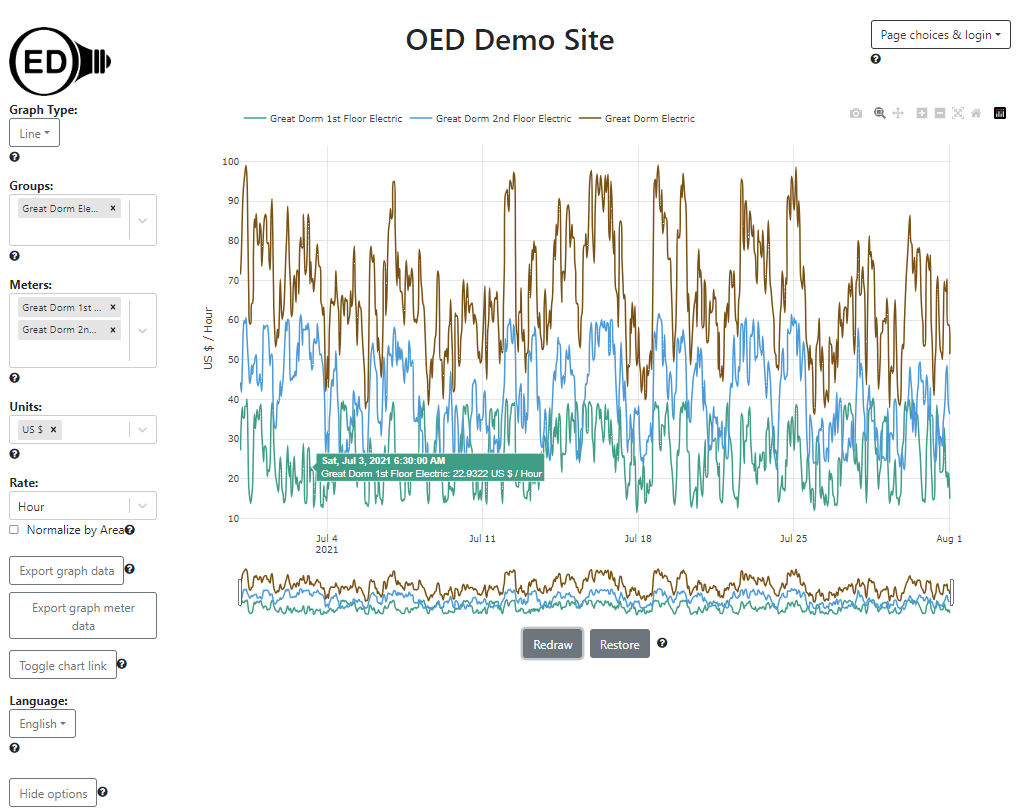
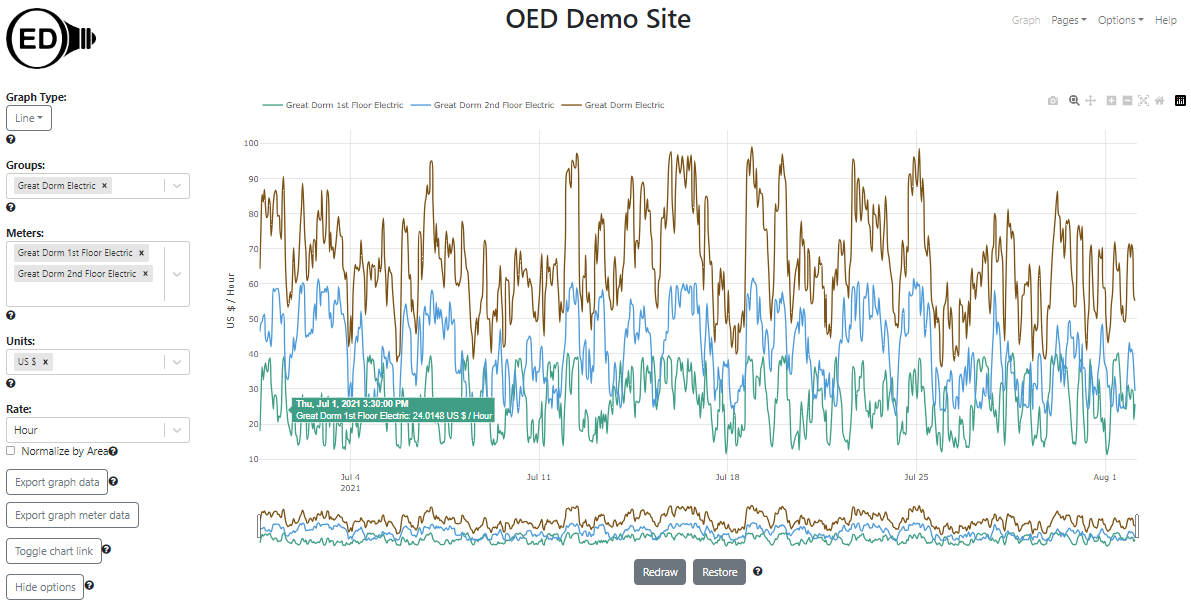
update for new images and OED look in features

diff --git a/features.html b/features.html
@@ -49,14 +49,14 @@ title: OED features
 				</li>
 			</ul>
 			<p><img alt="line graphic with two meters and a group of those meters in kWh"
-				src="images/lineGraphickWhDaily.png"></p>
+					src="images/lineGraphickWhDaily.png"></p>
 			<p>One can choose any compatible <a href="help/v1.0.0/graphingUnits.html">graphing unit</a> to display the
 				data.
 				In the following figure, the same data is displayed as cost in U.S. dollars. OED supports virtually any
 				unit including CO<sub>2</sub>, weight, volume, temperature, power (kW, etc.) where new units can be
 				created by a site. Every graphic support one choosing the desired unit for display.</p>
-			<img alt="line graphic with two meters and a group of those meters in US $"
-				src="images/lineGraphicUSDollarDaily.png">
+			<p><img alt="line graphic with two meters and a group of those meters in US $"
+					src="images/lineGraphicUSDollarDaily.png"></p>
 			<p>OED optimizes the time shown between points on a line graphic. This allows each point to be separate
 				along with speeding up graphing requests while minimizing the network traffic. In the previous line
 				graphic examples, each point represented the average usage over one day. Since there was about three
@@ -69,13 +69,13 @@ title: OED features
 				redrawn. The hover now shows thirty minutes into the hour since that is the middle of that
 				point that spans one hour. There are approximately 31 days * 24 hours/day = 744 hourly points in this
 				graphic.</p>
-			<img alt="line graphic with July 2021" src="images/lineGraphicUSDollarHourly.png">
+			<p><img alt="line graphic with July 2021" src="images/lineGraphicUSDollarHourly.png"></p>
 			<p>If you continue to zoom in on days then you will see the original meter readings. In the following
 				figure, the dates were modified to be the first 20 days in July. The hover now shows 20 minutes past the
 				hour because that meter reads data every 20 minutes (the reading goes from 10 past the hour to 30 past
 				the hour on this meter). There are 20 days * 24 hours/day * 3 readings/hour
 				= 1440 readings on this graphic.</p>
-			<img alt="line graphic with early July 2021" src="images/lineGraphicUSDollarRaw.png">
+			<p><img alt="line graphic with early July 2021" src="images/lineGraphicUSDollarRaw.png"></p>
 			<p>OED will give the highest quality (shortest time between points) for each meter that it can given the
 				date range of the graphic.</p>
 			<ul>
@@ -87,8 +87,8 @@ title: OED features
 					weeks/bar = 13 bars. Again the group is the sum of the two meters.
 				</li>
 			</ul>
-			<img alt="bar graphic with two meters and a group of those meters for 4 weeks"
-				src="images/barGraphickWh4Week.png">
+			<p><img alt="bar graphic with two meters and a group of those meters for 4 weeks"
+					src="images/barGraphickWh4Week.png"></p>
 			<p>There are several bar graphic options. One allows for predefined day, week and 4 weeks bars or one can
 				select
 				between 1 to 365 days if those are not desired. You can also stack the bars rather than having them next
@@ -102,10 +102,16 @@ title: OED features
 					between different areas of an organization. For example, on a college campus one could run an energy
 					competition to see how each dorm is doing in saving energy. The following figure shows the running
 					example in kWh comparing the current week to
-					the previous week. Note the
+					the previous week. It is sorted from the meter/group with the least improvement to the one with the
+					best improvement. The title of each graphic is colored coded so it is green when using less
+					energy was used in the current time vs the past time and red if using more. Note the
 					scale of the y-axis varies by meter/group but the sum of the bars for the two meters equals the
-					group. </li>
+					group.</li>
 			</ul>
+			<p>There are several bar graphic options. One allows for predefined day, week and 4 weeks bars or one can
+				select
+				between 1 to 365 days if those are not desired. You can also stack the bars rather than having them next
+				to each other for each date range shown.</p>
 			<p><img alt="compare graphic with two meters and a group of those meters for 1 week"
 					src="images/compareGraphickWhWeek.png"></p>
 			<ul>
@@ -123,19 +129,25 @@ title: OED features
 					that the circle represents.
 				</li>
 			</ul>
-			<img alt="map graphic of 4 buildings" src="images/mapGraphickWh4Weeks.png"">
+			<p><img alt="map graphic of 4 buildings" src="images/mapGraphickWh4Weeks.png""></p>
 		</li>
 		<li><a href=" help/v1.0.0/TODO.html">Area normalization</a>. Because the area covered by a meter or group can vary
-			greatly, the absolute usage can be misleading. To help, OED allows for normalizing the usage by the area
-			represented. The following figure shows the electrical usage in BTUs (showing you can display in any energy
-			unit because the meters collect this information in kWh). The library uses slightly less energy than "Great
-			Dorm".
+				greatly, the absolute usage can be misleading. To help, OED allows for normalizing the usage by the area
+				represented. The following figure shows the electrical usage in BTU (showing you can display in any
+				energy
+				unit because the meters collect this information in kWh). The Theater uses the most electricity then the
+				Dining Hall and the least by Great Dorm.
 		</li>
-		<img alt="line graphic of two building electric usage" src="images/lineGraphicBtu.png">
-		<p>In the next graphic, the option to "Normalize by Area" is selected. The library is 10x larger (100,000 sq.
-			meters vs 10,000 sq. meters) so it is now shows dramatically less usage. Clearly the Library is either used
-			differently or is much more efficient.</p>
-		<img alt="line graphic of two building electric usage normalized by area" src="images/lineGraphicBtuArea.png">
+		<p><img alt="line graphic of two building electric usage" src="images/lineGraphicBtu.png"></p>
+		<p>In the next graphic, the option to "Normalize by Area" is selected. Note the y-axis units are now "BTU / Hour
+			/ sq. meters". The area of the the Theater is 10,000 sq. meters, the Dining
+			Hall is 1,000 sq. meters and the Great Dorm is 10,000 sq. meters. Thus, when normalized by area, the Theater
+			is substantially below the Dining Hall because it is 10 times larger. There is no change between the Theater
+			and Great Dorm because they are the same area. Clearly the Theater is either used
+			differently or is much more efficient compared to the Dining Hall.</p>
+		<p><img alt="line graphic of two building electric usage normalized by area"
+				src="images/lineGraphicBtuArea.png"></p>
+		<p>One can normalize by either sq. meters or sq. feet independent of the area unit for a meter/group.</p>
 		<li><a href=" help/v1.0.0/export.html">Data Export</a>. You can export the data of the line and bar graphics
 			which
 			includes all meters and groups for the specified time frame of the graphic. This means you can use OED to
